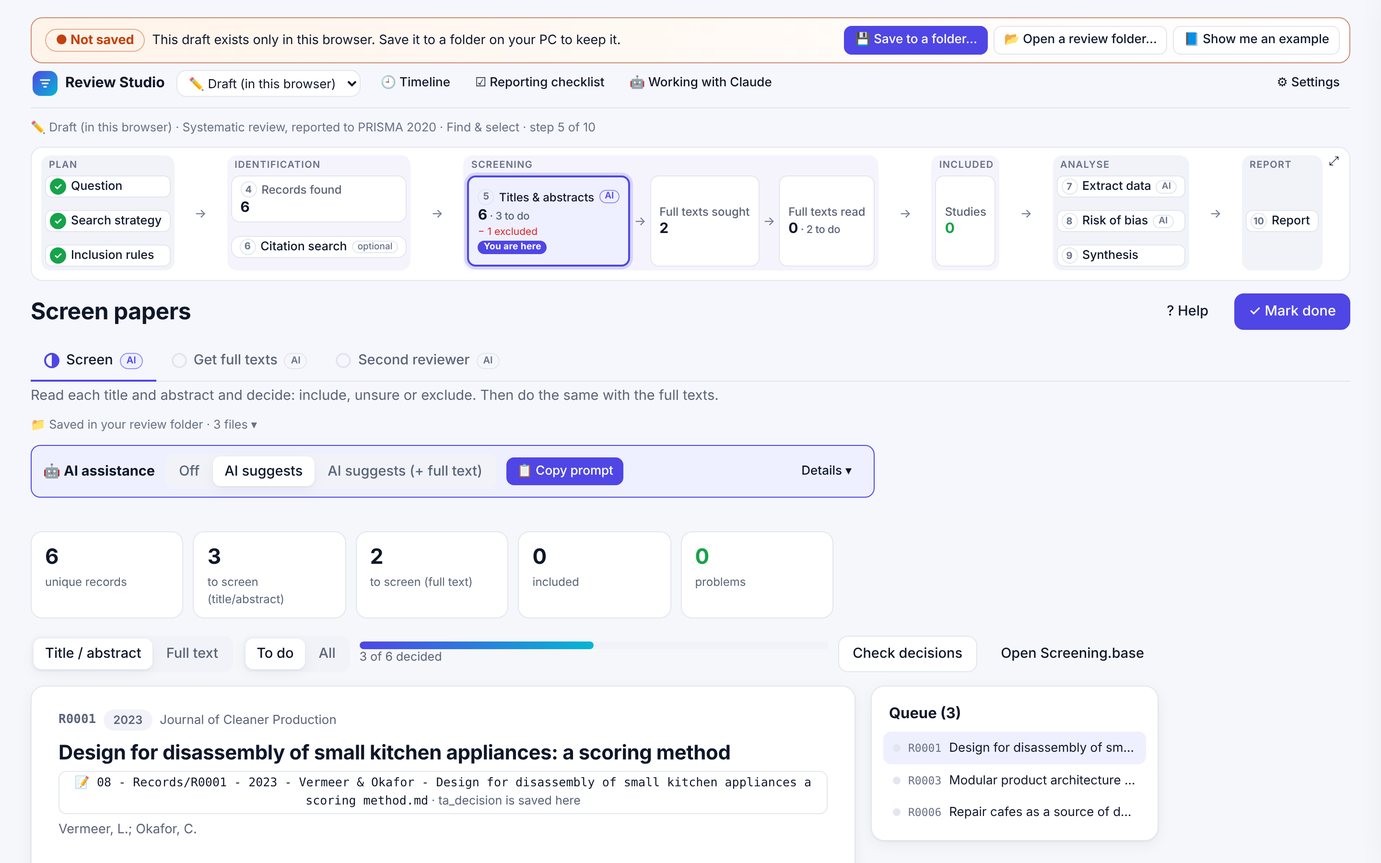
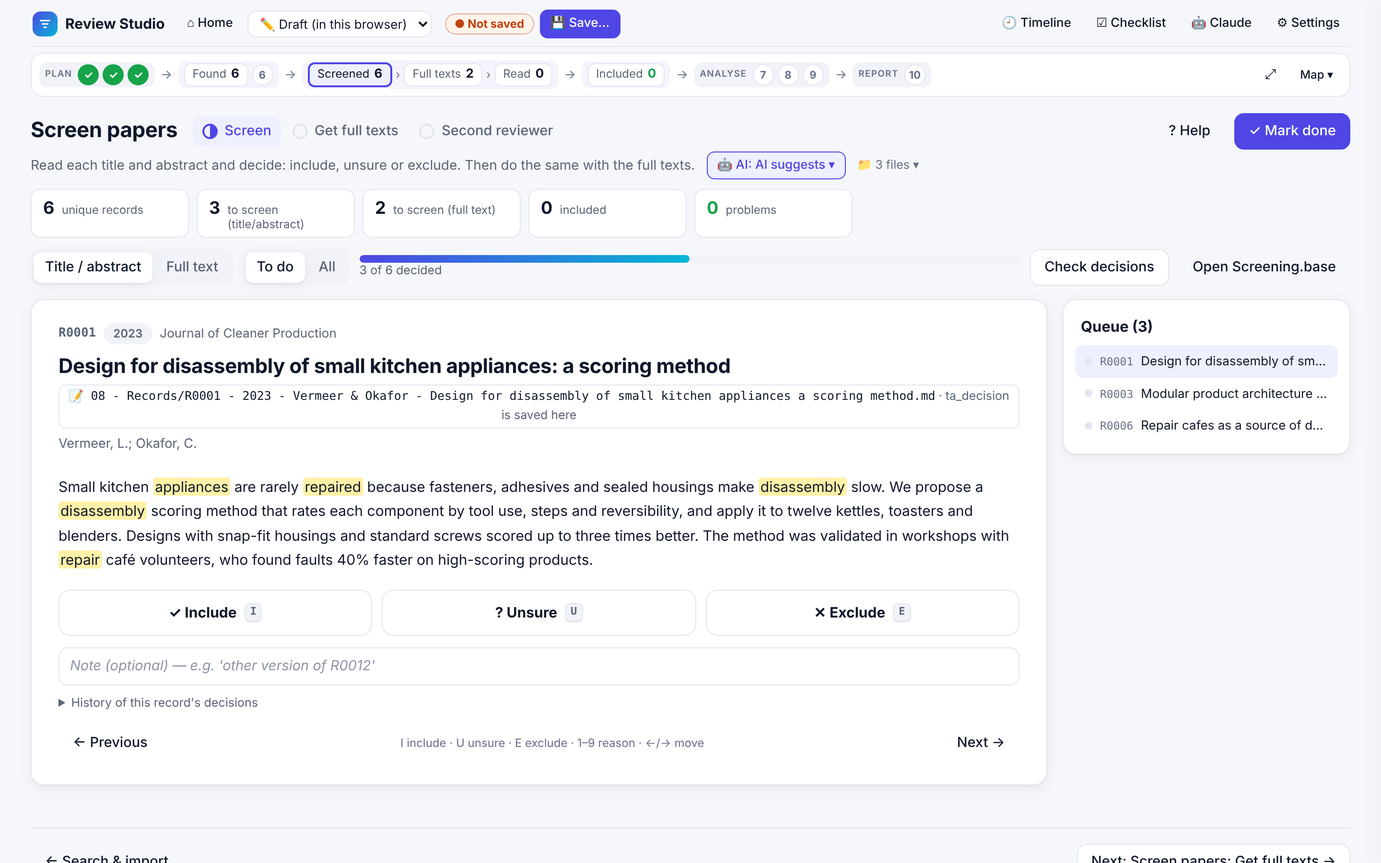
More room to work: a slim pinned bar, the map folded to one line, a simple Homepage
- One top bar: ⌂ Home, the review menu, a small status chip ("● Not saved ·
  Save…", or "📘 Example · not kept · ← My review"), Timeline, Checklist,
  Claude, Settings. The draft/example banners are gone.
- The map sits pinned under it, folded to one line by default (numbered steps
  and the PRISMA counts); "Map ▾" unfolds it and the choice is remembered.
- The page header scrolls with the page: the title and its tabs share a row,
  the description, the files (📁 3 files ▾) and AI assistance (🤖 AI: Off ▾)
  share one line; the number tiles are half as tall; the breadcrumb is gone.
- The Homepage only explains: one sentence, three ways in (start or continue
  your review, see the finished example, take the tour) and the animated
  walk-through. No map there.

Claude-Session: https://claude.ai/code/session_01F7zC9zifhcduysfsarhzy1

diff --git a/web/review-studio.js b/web/review-studio.js
@@ -314,19 +314,43 @@ function flowGroups() {
   ].map(g => ({ ...g, nodes: g.nodes.filter(Boolean) }));
 }
 
+/** The map: folded to one slim line (numbered dots and the PRISMA counts) or unfolded; the choice is remembered. */
 function flowMap() {
-  const groups = flowGroups(), here = flowHere();
+  const groups = flowGroups(), here = flowHere(), open = store.get("map_open", "") === "1";
+  const toggle = () => { store.set("map_open", open ? "" : "1"); render(); };
+  const full = () => modal({ title: "PRISMA flow diagram", wide: true,
+    body: h("div", {}, h("p", { class: "muted", style: "margin-top:0" }, "Live from your records; the box you are working on is highlighted."), flowDiagram(S.flow, here ?? undefined)) });
+  const arrow = () => h("span", { class: "fm-arrow", "aria-hidden": "true" }, "→");
+  const tipOf = (n, isHere) => (n.tip || (n.step ? `${n.step.title}: ${n.step.hint}` : n.label)) + (isHere ? " — you are here" : "");
+  if (!open) {                                                     // folded: one line
+    const SHORT = { identified: "Found", screened: "Screened", sought: "Full texts", assessed: "Read", included: "Included" };
+    const item = n => {
+      const isHere = n.id === here, num = n.step ? S.steps.indexOf(n.step) + 1 : null;
+      if (n.n === undefined) {
+        const status = stepStatus(n.step);
+        return h("button", { class: `fmc-dot ${status} ${isHere ? "here" : ""}`, onclick: n.go, title: tipOf(n, isHere), "aria-label": n.step.title, "aria-current": isHere ? "step" : null },
+          status === "done" ? "✓" : status === "skipped" ? "–" : String(num));
+      }
+      return h("button", { class: `fmc-count ${isHere ? "here" : ""} ${n.good ? "good" : ""}`, onclick: n.go, title: tipOf(n, isHere), "aria-current": isHere ? "step" : null },
+        h("span", {}, SHORT[n.id] ?? n.label), h("b", {}, Number(n.n).toLocaleString()));
+    };
+    return h("nav", { class: "flowmap compact", "aria-label": "Steps of the review, with the PRISMA flow" },
+      groups.flatMap((g, i) => [i ? arrow() : null, h("span", { class: `fmc-group ${g.prisma ? "prisma" : "steps"}`, title: g.phase },
+        h("span", { class: "fmc-phase" }, g.phase), g.nodes.flatMap((n, j) => [j && g.prisma && g.phase !== "Identification" ? h("span", { class: "fmc-sep" }, "›") : null, item(n)]))]),
+      h("span", { class: "spacer" }),
+      iconBtn("⤢", "Show the full PRISMA flow diagram", full),
+      h("button", { class: "btn sm ghost fm-toggle", onclick: toggle, "aria-expanded": "false", title: "Unfold the map: every step with its name, and the PRISMA counts" }, "Map ▾"));
+  }
   const node = n => {
     const isHere = n.id === here, status = n.step && n.n === undefined ? stepStatus(n.step) : null, num = n.step ? S.steps.indexOf(n.step) + 1 : null;
     return h("button", { class: `fm-node ${isHere ? "here" : ""} ${n.n === undefined ? "stepnode" : ""} ${n.small ? "small" : ""} ${n.good ? "good" : ""} ${status ?? ""}`,
-      onclick: n.go, title: (n.tip || (n.step ? `${n.step.title}: ${n.step.hint}` : n.label)) + (isHere ? " — you are here" : ""), "aria-current": isHere ? "step" : null },
+      onclick: n.go, title: tipOf(n, isHere), "aria-current": isHere ? "step" : null },
       h("span", { class: "fm-label" }, num ? h("span", { class: "fm-num" }, status === "done" ? "✓" : status === "skipped" ? "–" : String(num)) : null, n.label,
         n.step && stepOptional(n.step) ? h("span", { class: "fm-opt" }, "optional") : null, n.step && !n.small ? aiMark(stepStages(n.step).map(s => s.key)) : null),
       n.n === undefined ? null : h("span", { class: "fm-n" }, Number(n.n).toLocaleString(), n.open ? h("span", { class: "fm-open" }, ` · ${n.open} to do`) : null),
       n.minus ? h("span", { class: "fm-minus" }, "− " + n.minus) : null,
       isHere ? h("span", { class: "fm-here" }, "You are here") : null);
   };
-  const arrow = () => h("span", { class: "fm-arrow", "aria-hidden": "true" }, "→");
   // the planning and analysis steps as short lists; citation searching under the database records, as in PRISMA 2020
   const nodesOf = g => !g.prisma || g.phase === "Identification"
     ? h("div", { class: "fm-nodes stack" }, g.nodes.map(node))
@@ -334,9 +358,8 @@ function flowMap() {
   return h("nav", { class: "flowmap", "aria-label": "Steps of the review, with the PRISMA flow" },
     h("div", { class: "fm-track" }, groups.flatMap((g, i) => [i ? arrow() : null,
       h("div", { class: `fm-group ${g.prisma ? "prisma" : "steps"}` }, h("div", { class: "fm-phase" }, g.phase), nodesOf(g))])),
-    h("div", { class: "fm-tools" },
-      iconBtn("⤢", "Show the full PRISMA flow diagram", () => modal({ title: "PRISMA flow diagram", wide: true,
-        body: h("div", {}, h("p", { class: "muted", style: "margin-top:0" }, "Live from your records; the box you are working on is highlighted."), flowDiagram(S.flow, here ?? undefined)) }))));
+    h("div", { class: "fm-tools" }, iconBtn("⤢", "Show the full PRISMA flow diagram", full),
+      h("button", { class: "btn sm ghost fm-toggle", onclick: toggle, "aria-expanded": "true", title: "Fold the map to one line" }, "▴")));
 }
 
 // ================================================================ chrome: sidebar, topbar, metrics
@@ -401,47 +424,43 @@ const PART_DESC = {
 };
 
 function renderTop() {
-  if (CUR === HOME) {
-    $("#topbar").replaceChildren(
-      h("div", { class: "titlerow" }, h("h1", {}, "Welcome to Review Studio")),
-      h("p", { class: "desc" }, `From your first idea to the finished report in ${S.steps.length} steps: a ${S.review_type.label.toLowerCase()}, reported to ${S.review_type.guideline}. Click a step in the map to open it.`),
-      flowMap(),
-      h("div", { class: "home-badges" }, [
-        ["📝 Plain Markdown", "Every record is a Markdown note with properties; the searches are a CSV table. Any text editor can read them."],
-        ["🟣 Opens in Obsidian", "A review folder is an Obsidian vault as it is: the notes, links and the screening and charting tables (.base files) work there too."],
-        ["🔒 Stays on your PC", "Everything is saved in a folder you choose. Nothing is uploaded and there is no account."],
-      ].map(([t, tip]) => h("span", { class: "home-badge", title: tip }, t)),
-        h("a", { class: "home-badge download", href: "https://github.com/Abdulhamid-Baghdadi/review-studio/releases/latest/download/review-studio.zip",
-          title: "The desktop version: a ZIP with launchers for Windows, Mac and Linux (needs Node.js). Or install it as an app from ⚙ Settings." }, "💾 Download desktop version")));
+  const mapbar = $("#mapbar");
+  if (CUR === HOME) {                                               // the Homepage explains; the page itself holds the choices
+    mapbar.replaceChildren();
+    $("#topbar").replaceChildren(h("div", { class: "home-hero" }, h("h1", {}, "Welcome to Review Studio"),
+      h("p", {}, `A guided ${S.review_type.label.toLowerCase()}, from your question to the PRISMA report. Everything stays on your PC.`)));
     return;
   }
-  const s = stage(CUR), st = stepOf(CUR), n = S.steps.indexOf(st), tab = curTab();
+  mapbar.replaceChildren(flowMap());
+  const s = stage(CUR), st = stepOf(CUR), tab = curTab();
   const locked = S.state.protocol.locked;
   const tabs = st.tabs.length > 1 ? h("div", { class: "steptabs", role: "tablist" }, st.tabs.map(t => {
     const ts = stage(t.stage), on = t === tab;
     return h("button", { class: `steptab ${ts.status} ${on ? "on" : ""}`, role: "tab", "aria-selected": String(on),
       title: ts.desc + (ts.optional ? " (optional)" : ""), onclick: () => goTab(t) },
       h("span", { class: "tdot" }, ts.status === "done" ? "✓" : ts.status === "skipped" ? "–" : ""), t.label,
-      ts.optional ? h("span", { class: "topt" }, "optional") : null, aiMark(t.stage));
+      ts.optional ? h("span", { class: "topt" }, "optional") : null);
   })) : null;
   const what = st.tabs.length > 1 ? `“${tab.label}”` : "this step";
+  const aiStep = S.ai?.steps[CUR], aiMode = aiStep && (S.ai.modes[CUR] || "off"), aiOpen = store.get("ai_open", "") === "1";
   $("#topbar").replaceChildren(
-    h("div", { class: "crumbs" }, `${REVIEW} · ${S.review_type.label}, reported to ${S.review_type.guideline} · ${st.phase} · step ${n + 1} of ${S.steps.length}`),
-    flowMap(),
     h("div", { class: "titlerow" },
       h("h1", {}, st.title),
       st.tabs.length > 1 ? null : pill(s.status.replace("-", " "), statusKind(s.status)),
-      st.tabs.length > 1 || !s.optional ? null : pill("optional", "info"),
-      S.dev_mode ? pill("🛠 developer mode — locks off", "bad")
-        : locked && ["questions", "concepts", "queries", "protocol", "charting"].includes(CUR) ? pill("🔒 protocol locked — changes are amendments", "warn") : null,
+      tabs,
+      S.dev_mode ? pill("🛠 developer mode", "bad")
+        : locked && ["questions", "concepts", "queries", "protocol", "charting"].includes(CUR) ? h("span", { class: "pill warn", title: "The protocol is locked: changes here are amendments, with a reason" }, "🔒 locked") : null,
       h("span", { class: "spacer" }),
       btn("? Help", () => openHelp(CUR), "ghost"),
       s.optional && !["skipped", "done"].includes(s.status) ? btn("Skip…", skipStage, "ghost", `Skip ${what} (it is optional)`) : null,
       s.status === "done" || s.status === "skipped" ? btn("Reopen", () => api("stage_status", { stage: CUR, status: "in-progress" }), "", `Reopen ${what}`)
         : btn("✓ Mark done", () => api("stage_status", { stage: CUR, status: "done" }), "primary", `Mark ${what} as done`)),
-    tabs || "",
-    h("p", { class: "desc" }, PART_DESC[`${CUR}:${tab.part}`] ?? s.desc, s.reason ? h("span", { class: "muted" }, ` — skipped: ${s.reason}`) : null),
-    savedIn(CUR) || "", aiCard(CUR) || "");
+    h("div", { class: "infoline" },
+      h("span", { class: "desc" }, PART_DESC[`${CUR}:${tab.part}`] ?? s.desc, s.reason ? h("span", { class: "muted" }, ` — skipped: ${s.reason}`) : null),
+      aiStep ? h("button", { class: "btn sm ai-chip" + (aiMode === "off" ? "" : " on"), "aria-expanded": String(aiOpen), title: "AI assistance for this step: who does what, and the prompt for Claude",
+        onclick: () => { store.set("ai_open", aiOpen ? "" : "1"); render(); } }, `🤖 AI: ${aiStep.modes.find(m => m.key === aiMode).label} ${aiOpen ? "▴" : "▾"}`) : null,
+      savedIn(CUR) || null),
+    aiOpen ? aiCard(CUR) || "" : "");
 }
 
 /** Back and Next at the foot of every page: walks the tabs and steps in order. */
@@ -468,7 +487,7 @@ function aiCard(key) {
       segmented(step.modes.map(m => [m.key, m.label]), mode, v => api("ai_mode", { stage: key, mode: v })),
       mode === "off" ? null : btn("📋 Copy prompt", () => copy(step.prompt), "sm primary"),
       h("span", { class: "spacer" }),
-      h("button", { class: "btn sm ghost ai-toggle", "aria-expanded": String(open), onclick: toggle }, open ? "Hide details ▴" : "Details ▾")),
+      h("button", { class: "btn sm ghost ai-toggle", "aria-expanded": String(open), onclick: toggle }, "Close ▴")),
     open ? h("div", { class: "aibody" },
       h("div", { class: "small muted" }, cur.desc),
       mode === "off" ? null : h("div", { class: "small muted" }, step.skills.length > 1 ? "Skills: " : "Skill: ",
@@ -501,7 +520,7 @@ function savedIn(key) {
   const icon = p => p === "@library" ? "📚" : /\.(md)$/.test(p) ? "📝" : /\.base$/.test(p) ? "▦" : /\.(csv|json)$/.test(p) ? "🗎" : "📁";
   const files = STORAGE[key] || [];
   if (!files.length) return null;
-  return h("details", { class: "savedin" }, h("summary", { title: "Which files in your review folder this step writes" }, `📁 Saved in your review folder · ${files.length} file${files.length > 1 ? "s" : ""} ▾`),
+  return h("details", { class: "savedin" }, h("summary", { title: "Which files in your review folder this step writes" }, `📁 ${files.length} file${files.length > 1 ? "s" : ""} ▾`),
     h("div", { class: "files" }, files.map(([p, what]) => [p === "@checklist" ? S.review_type.checklistFile : p, what]).map(([p, what]) => h("button", { class: "file", title: `${S.folder}/${p === "@library" ? "../" + libraryName() : p} — click to open`, onclick: () => openNote(p) },
       icon(p), " ", p === "@library" ? libraryName() : p, h("span", { class: "muted" }, " · " + what)))));
 }
@@ -555,6 +574,7 @@ function render() {
   renderChrome();
   renderDraftBar();
   for (const id of ["btnTimeline", "btnScr"]) $("#" + id).hidden = CUR === HOME;   // the Homepage is only an introduction
+  $("#btnHomeLink").classList.toggle("on", CUR === HOME);
   $("#btnType").textContent = `🧭 ${S.review_type.label} · ${S.review_type.guideline}`;
   $("#btnType").hidden = S.review_type.key !== "scoping" || CUR === HOME;   // systematic is the standard; only a scoping review shows its type
   $("#btnClaude").hidden = !S.ai?.steps[CUR];                      // only on the stages where Claude can help (marked AI)
@@ -581,7 +601,7 @@ function nameFields(root) {
   }
 }
 
-function go(key) { CUR = key; store.set("stage", key); if (key !== HOME) { const st = stepOf(key), t = curTab(); if (st && t) store.set("tab_" + st.key, `${t.stage}:${t.part ?? ""}`); } history.replaceState(null, "", "#" + key); render(); $("#main").scrollTo({ top: 0 }); const dr = $("#drawer"); if (dr.classList.contains("open") && key !== HOME) (dr.querySelector("h2").textContent.startsWith("Example") ? openExample : openHelp)(key); }
+function go(key) { CUR = key; store.set("stage", key); if (key !== HOME) store.set("last_stage", key); if (key !== HOME) { const st = stepOf(key), t = curTab(); if (st && t) store.set("tab_" + st.key, `${t.stage}:${t.part ?? ""}`); } history.replaceState(null, "", "#" + key); render(); $("#main").scrollTo({ top: 0 }); const dr = $("#drawer"); if (dr.classList.contains("open") && key !== HOME) (dr.querySelector("h2").textContent.startsWith("Example") ? openExample : openHelp)(key); }
 
 async function skipStage() {
   const r = await promptText("Skip this part", "Skipping is fine for optional parts, but the reason is reported in the timeline and the reporting checklist.", "e.g. not planned in the protocol", true);
@@ -871,15 +891,22 @@ function homeDemo() {
 }
 
 // Homepage: the demo and the tour
-PAGES.home = () => h("div", { class: "home" },
-  card("See how it works", "A one-minute walk through a review: what you do, and where Claude can help (AI). Click a part of the circle to jump to it.", homeDemo()),
-  h("div", { class: "home-tour" },
-    h("div", {}, h("h3", {}, "🎓 New here? Take the tour"), h("p", { class: "sub" }, "One minute: what each part of the screen is for.")),
-    btn("Start the tour", () => startTour(), "primary tour-big")),
-  h("div", { class: "home-tour home-example" },
-    h("div", {}, h("h3", {}, "📘 See a finished example"),
-      h("p", { class: "sub" }, "A small systematic review from start to finish: a real search of 61 records, screened down to 10 included studies, with the data extracted and the PRISMA flow diagram. Look around or change things: the example is reset each time you open it.")),
-    btn("Open the example", openFinishedExample, "tour-big")));
+// Homepage: only explains, and offers three ways in. The work itself happens on the steps.
+PAGES.home = () => {
+  const last = store.get("last_stage", ""), lastStage = S.stages.find(x => x.key === last);
+  const started = lastStage && (S.events.length || S.records.length);
+  const choice = (icon, title, text, onclick, cls = "") => h("button", { class: "home-choice " + cls, onclick },
+    h("span", { class: "hc-icon", "aria-hidden": "true" }, icon), h("span", { class: "hc-title" }, title), h("span", { class: "hc-text" }, text));
+  return h("div", { class: "home" },
+    h("div", { class: "home-choices" },
+      started ? choice("▶", `Continue: ${stepOf(last).title}`, "Pick up where you left off.", () => go(last), "primary")
+        : choice("▶", "Start your review", "Step 1: write down your research question.", () => go("questions"), "primary"),
+      choice("📘", "See a finished example", "A real search of 61 records, screened down to 10 included studies.", openFinishedExample),
+      choice("🎓", "Take the 1-minute tour", "What each part of the screen is for.", () => { go("questions"); setTimeout(() => startTour(), 250); })),
+    card("How a review goes", "Five phases, one minute. Click a part of the circle to jump to it.", homeDemo()),
+    h("p", { class: "home-foot small muted" }, "📝 Plain Markdown notes and CSV tables · 🟣 opens in Obsidian · 🔒 nothing is uploaded, no account · ",
+      h("a", { href: "https://github.com/Abdulhamid-Baghdadi/review-studio/releases/latest/download/review-studio.zip" }, "💾 desktop version")));
+};
 
 /** Opens the finished example review (backend.exampleEntry), on its Report step: the result first, Back walks through it. */
 async function openFinishedExample() {
@@ -1964,6 +1991,7 @@ $("#btnKeys").onclick = openKeys;
 $("#btnScr").onclick = () => openChecklist();
 // The sidebar folds away (☰ or [) to give the content the whole width; remembered in this browser
 $("#btnHome").onclick = () => go(HOME);
+$("#btnHomeLink").onclick = () => go(HOME);
 window.addEventListener("hashchange", () => { if (location.hash === "#example" && S) openFinishedExample(); });   // …/web/#example while the app is open
 $("#main").addEventListener("scroll", () => $("#topwrap").classList.toggle("scrolled", $("#main").scrollTop > 4));
 
@@ -1980,31 +2008,22 @@ $("#main").addEventListener("scroll", () => $("#topwrap").classList.toggle("scro
 // The draft (a review in the browser's own storage, where the app starts): save it to a folder, or open one.
 function renderDraftBar() {
   const bar = $("#draftBar");
-  if (backend.entry?.example) {                                     // the finished example: say what it is, and the way back
+  bar.classList.remove("example", "has-content");
+  if (backend.entry?.example) {                                     // the finished example: what it is, and the way back
     bar.hidden = false;
-    bar.classList.remove("has-content");
     bar.classList.add("example");
     bar.replaceChildren(
-      h("span", { class: "draft-text" }, h("span", { class: "example-badge" }, "📘 Finished example"),
-        ` A real OpenAlex search (${S.flow.unique} records) screened down to ${S.flow.included} included studies. Decisions were made from titles and abstracts; risk of bias is left open. Try anything: changes are not kept.`),
-      h("span", { class: "draft-actions" }, btn("← Back to my review", () => switchReview(S.reviews[0]), "sm primary")));
+      h("span", { class: "example-badge", title: `A real OpenAlex search (${S.flow.unique} records) screened down to ${S.flow.included} included studies. Decisions were made from titles and abstracts; risk of bias is left open. Try anything: changes are not kept.` }, "📘 Example · not kept"),
+      btn("← My review", () => switchReview(S.reviews[0]), "sm primary", "Back to your own review"));
     return;
   }
-  bar.classList.remove("example");
-  bar.hidden = !backend.entry?.draft || CUR === HOME;              // the Homepage is only an introduction
-  bar.classList.toggle("has-content", draftHasContent());
+  bar.hidden = !backend.entry?.draft;
   if (bar.hidden) return;
-  const recent = S.reviews.filter(r => r !== REVIEW && !r.startsWith("📘")).slice(0, 2);
+  const content = draftHasContent();
+  bar.classList.toggle("has-content", content);
   bar.replaceChildren(
-    h("span", { class: "draft-text" }, h("span", { class: "unsaved-badge" }, "● Not saved"),
-      draftHasContent()
-        ? " This draft exists only in this browser. Save it to a folder on your PC to keep it."
-        : " Start writing here; save it to a folder on your PC when you want to keep it."),
-    h("span", { class: "draft-actions" },
-      btn("💾 Save to a folder…", e => busy(e.currentTarget, saveDraft), "sm primary"),
-      btn("📂 Open a review folder…", openReviewFolder, "sm"),
-      S.reviews.some(r => r.startsWith("📘")) ? btn("📘 Show me an example", openFinishedExample, "sm", "A finished review: a real search screened down to 10 included studies") : null,
-      ...recent.map(r => btn(`▶ ${r.replace(/ records$/, "")}`, () => switchReview(r), "sm ghost"))));
+    h("span", { class: "unsaved-badge", title: content ? "This draft exists only in this browser. Save it to a folder on your PC to keep it." : "You are in a draft kept in this browser; save it to a folder on your PC when you want to keep it." }, "● Not saved"),
+    btn("💾 Save…", e => busy(e.currentTarget, saveDraft), content ? "sm primary" : "sm", "Save this draft to a folder on your PC"));
 }
 
 // Closing or leaving the page with a draft that has content: the browser asks first (it shows its own wording).

diff --git a/web/style.css b/web/style.css
@@ -519,3 +519,79 @@ details.savedin .files { display: flex; flex-wrap: wrap; gap: 6px; }
 .flowmap { position: relative; }
 .fm-tools { position: absolute; top: 4px; right: 4px; }
 .fm-track { padding-right: 18px; }
+
+/* ---------- compact layout: a slim pinned bar (toolbar + folded map); the page header scrolls with the page ---------- */
+.topbar { padding: 8px 32px 6px; }
+.toolbar { margin: 0 0 6px; padding-bottom: 6px; gap: 4px; flex-wrap: nowrap; overflow-x: auto; }
+.toolbar > * { flex: none; }
+.home-btn.on { background: var(--accent-2); color: var(--accent); font-weight: 600; }
+.draft-bar, .draft-bar.has-content, .draft-bar.example { display: inline-flex; align-items: center; gap: 6px; margin: 0 0 0 4px; padding: 0; border: 0; background: none; }
+.draft-bar[hidden] { display: none; }
+.draft-bar .unsaved-badge, .draft-bar .example-badge { margin: 0; font-size: 12px; padding: 1px 9px; cursor: help; }
+#mapbar:empty { display: none; }
+#mapbar .flowmap { margin: 0; }
+.content { padding-top: 10px; }
+#topbar .titlerow { gap: 10px; }
+#topbar .titlerow h1 { font-size: 22px; }
+#topbar .steptabs { margin: 0 0 0 6px; border-bottom: 0; }
+#topbar .steptab { padding: 5px 10px; border-radius: 8px; border-bottom: 0; }
+#topbar .steptab.on { background: var(--accent-2); color: var(--accent); }
+.infoline { display: flex; align-items: center; gap: 6px 12px; flex-wrap: wrap; margin: 2px 0 0; }
+.infoline .desc { margin: 0; font-size: 14px; flex: 0 1 auto; }
+.infoline details.savedin { display: inline-block; margin: 0; }
+.infoline details.savedin[open] { flex-basis: 100%; }
+.ai-chip { font-size: 12.5px; padding: 2px 10px; border-radius: 99px; }
+.ai-chip.on { border-color: var(--accent); color: var(--accent); background: var(--accent-2); }
+.metrics { margin: 10px 0 12px; gap: 8px; grid-template-columns: repeat(auto-fill, minmax(150px, 1fr)); }
+.metric { padding: 6px 12px; display: flex; align-items: baseline; gap: 8px; border-radius: 10px; }
+.metric .v { font-size: 18px; }
+.metric .l { font-size: 12px; line-height: 1.25; }
+
+/* the folded map: one line */
+.flowmap.compact { display: flex; align-items: center; gap: 6px; padding: 4px 8px; flex-wrap: nowrap; overflow-x: auto; }
+.flowmap.compact > * { flex: none; }
+.flowmap.compact .spacer { flex: 1; }
+.fmc-group { display: inline-flex; align-items: center; gap: 4px; padding: 2px 6px; border-radius: 8px; }
+.fmc-group.prisma { background: color-mix(in srgb, var(--accent) 6%, transparent); }
+.fmc-group.steps { background: var(--surface-2); }
+.fmc-phase { font-size: 9.5px; letter-spacing: .07em; text-transform: uppercase; color: var(--faint); font-weight: 600; margin-right: 2px; }
+.fmc-sep { color: var(--faint); font-size: 12px; }
+.fmc-dot { width: 22px; height: 22px; border-radius: 50%; border: 1.5px solid var(--border); background: var(--surface); color: var(--faint); font: inherit; font-size: 11px; font-weight: 700; display: grid; place-items: center; cursor: pointer; padding: 0; }
+.fmc-dot:hover { border-color: var(--accent); }
+.fmc-dot.done { background: var(--ok); border-color: var(--ok); color: #fff; }
+.fmc-dot.in-progress { border-color: var(--accent); color: var(--accent); background: var(--accent-2); }
+.fmc-dot.skipped { border-style: dashed; }
+.fmc-dot.here { box-shadow: 0 0 0 3px var(--surface), 0 0 0 5px var(--accent); }
+.fmc-count { display: inline-flex; align-items: baseline; gap: 5px; border: 1.5px solid var(--border); background: var(--surface); color: var(--muted); border-radius: 7px; padding: 1px 8px; font: inherit; font-size: 12px; cursor: pointer; }
+.fmc-count b { color: var(--text); font-size: 13px; }
+.fmc-count:hover { border-color: var(--accent); }
+.fmc-count.good b { color: var(--ok); }
+.fmc-count.here { border: 2px solid var(--accent); background: var(--accent-2); color: var(--text); }
+.flowmap .fm-toggle { padding: 2px 8px; font-size: 12px; }
+.flowmap:not(.compact) .fm-tools { display: flex; flex-direction: row; gap: 2px; }
+
+/* the Homepage: a sentence, three ways in, the walk-through */
+.home-hero h1 { font-size: 30px; margin: 10px 0 4px; letter-spacing: -.02em; }
+.home-hero p { margin: 0 0 6px; color: var(--muted); font-size: 16px; }
+.home-choices { display: grid; grid-template-columns: repeat(3, minmax(0, 1fr)); gap: 14px; margin: 8px 0 18px; }
+.home-choice { display: flex; flex-direction: column; align-items: flex-start; gap: 4px; text-align: left; font: inherit; color: var(--text); background: var(--surface); border: 1px solid var(--border); border-radius: 14px; padding: 16px 18px; cursor: pointer; transition: transform .12s, box-shadow .12s, border-color .12s; }
+.home-choice:hover { transform: translateY(-2px); box-shadow: var(--shadow); border-color: var(--accent); }
+.home-choice.primary { background: var(--accent); border-color: var(--accent); color: var(--accent-ink); }
+.home-choice.primary .hc-text { color: color-mix(in srgb, var(--accent-ink) 85%, transparent); }
+.hc-icon { font-size: 22px; line-height: 1; }
+.hc-title { font-weight: 700; font-size: 16px; }
+.hc-text { font-size: 13px; color: var(--muted); }
+.home-foot { margin-top: 14px; }
+@media (max-width: 900px) { .home-choices { grid-template-columns: minmax(0, 1fr); } }
+.fmc-group.prisma .fmc-phase { display: none; }
+.flowmap:not(.compact) .fm-track { padding-right: 56px; }
+.content { max-width: 1440px; }
+@media (max-width: 1250px) {
+  .brand-name { display: none; }
+  .fmc-group .fmc-phase { display: none; }
+  .flowmap.compact { gap: 4px; padding: 4px 6px; }
+  .fmc-count { padding: 1px 6px; }
+  .review-sel { max-width: 170px; }
+  .topbar { padding-left: 16px; padding-right: 16px; }
+  .content { padding-left: 16px; padding-right: 16px; }
+}

diff --git a/web/index.html b/web/index.html
@@ -56,17 +56,18 @@
   <div class="app" id="app" hidden>
     <main class="main" id="main">
       <header class="topbar" id="topwrap">
-        <div class="draft-bar" id="draftBar" hidden></div>
         <nav class="toolbar" aria-label="Review tools">
-          <button class="brand-btn" id="btnHome" title="Homepage: what Review Studio is and how it works"><span class="logo">
+          <button class="brand-btn" id="btnHome" title="Home: what Review Studio is, and where to start"><span class="logo">
             <svg width="14" height="14" viewBox="0 0 24 24" fill="none" stroke="currentColor" stroke-width="2.4" stroke-linecap="round"><path d="M4 6h16M7 12h10M10 18h4"/></svg>
-          </span>Review Studio</button>
+          </span><span class="brand-name">Review Studio</span></button>
+          <button class="btn sm ghost home-btn" id="btnHomeLink" title="Home: what Review Studio is, and where to start">⌂ Home</button>
           <select id="reviewSel" class="review-sel" title="Review"></select>
+          <span class="draft-bar" id="draftBar" hidden></span>
           <button class="btn sm ghost" id="btnType" title="Review type: scoping (PRISMA-ScR) or systematic (PRISMA 2020); click to switch">🧭 Review type</button>
-          <button class="btn sm ghost" id="btnTimeline" title="Every dated event of this review (T)">🕘 Timeline</button>
-          <button class="btn sm ghost" id="btnScr" title="The reporting checklist of this review (PRISMA 2020)">☑ Reporting checklist</button>
-          <button class="btn sm ghost" id="btnClaude" title="How to use Claude (or another AI assistant) with this review">🤖 Working with Claude</button>
           <span class="spacer"></span>
+          <button class="btn sm ghost" id="btnTimeline" title="Every dated event of this review (T)">🕘 Timeline</button>
+          <button class="btn sm ghost" id="btnScr" title="The reporting checklist of this review (PRISMA 2020)">☑ Checklist</button>
+          <button class="btn sm ghost" id="btnClaude" title="How to use Claude (or another AI assistant) with this review">🤖 Claude</button>
           <div class="menu-wrap">
             <button class="btn sm ghost" id="btnSettings" aria-haspopup="true" aria-expanded="false">⚙ Settings</button>
             <div class="popmenu" id="settingsMenu" hidden>
@@ -81,9 +82,10 @@
             </div>
           </div>
         </nav>
-        <div id="topbar"></div>
+        <div id="mapbar"></div>
       </header>
       <section class="content">
+        <div id="topbar"></div>
         <div class="metrics" id="metrics"></div>
         <div id="page"></div>
       </section>

diff --git a/README.md b/README.md
@@ -41,7 +41,7 @@ Review Studio walks you through a systematic review from the first idea to the P
 4. When you want to keep it, press **💾 Save to a folder…** in the bar at the top, give the review a name and pick a place on your PC. From then on every change is written to that folder.
 5. Next time, the same bar offers **📂 Open a review folder…** and your recent reviews. The browser asks once per visit before the app may edit a folder.
 
-Handy: click **Review Studio** (top left) for the Homepage; **⚙ Settings** has light/dark, the glossary and the keyboard shortcuts.
+Handy: **⌂ Home** (top left) explains the app and offers three ways in: start or continue your review, see the finished example, or take the tour. The map under the top bar is folded to one line while you work (**Map ▾** unfolds it); **⚙ Settings** has light/dark, the glossary and the keyboard shortcuts.
 
 ## Three ways to use it
 
@@ -80,7 +80,7 @@ A new review is a **systematic review, reported to PRISMA 2020**. A map at the t
 | 9 | **Synthesis** | | Narrative synthesis or meta-analysis (forest and funnel plots, R script) and the certainty of the evidence (GRADE). |
 | 10 | **Report** | | PRISMA flow diagram, PRISMA 2020 checklist, report draft and exports. |
 
-**The map is the navigation.** It runs from the planning steps through the boxes of the PRISMA flow diagram, with your live counts (records found, titles and abstracts screened, full texts sought and read, studies included), to the analysis steps and the report. *You are here* marks the page on screen; click any box to open it, or ⤢ for the full PRISMA diagram.
+**The map is the navigation.** Folded to one slim line by default (numbered steps and the PRISMA counts), or unfolded with *Map ▾*. It runs from the planning steps through the boxes of the PRISMA flow diagram, with your live counts (records found, titles and abstracts screened, full texts sought and read, studies included), to the analysis steps and the report. *You are here* marks the page on screen; click any box to open it, or ⤢ for the full PRISMA diagram.
 
 **A finished example.** [Open it directly](https://abdulhamid-baghdadi.github.io/review-studio/web/#example) (the link `…/web/#example`), or click *Open the example* on the Homepage or *📘 Show me an example* at the top of any page. It opens a small systematic review that is finished up to the report: a real OpenAlex search (61 records, string and date logged), screened down to 10 included studies, with data extracted and the PRISMA flow diagram. The decisions and extracted values come from the titles and abstracts, and risk of bias is left open because it needs the full texts. The example is copied fresh into the browser each time it is opened, so visitors can change anything. It is built by `npm run example` from the saved search in `web/example/openalex-search.json`.
 
